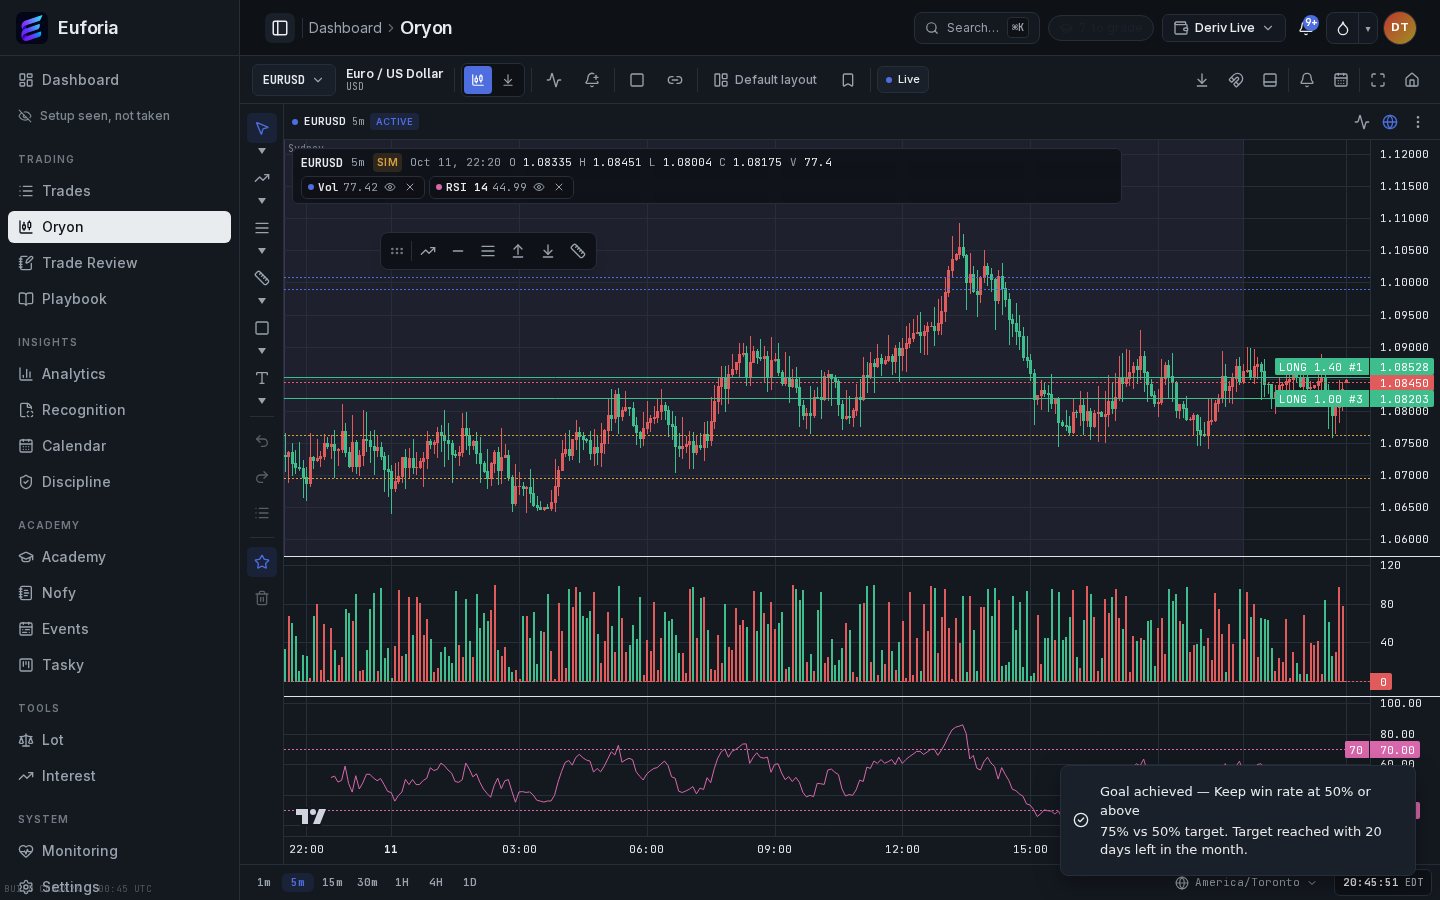
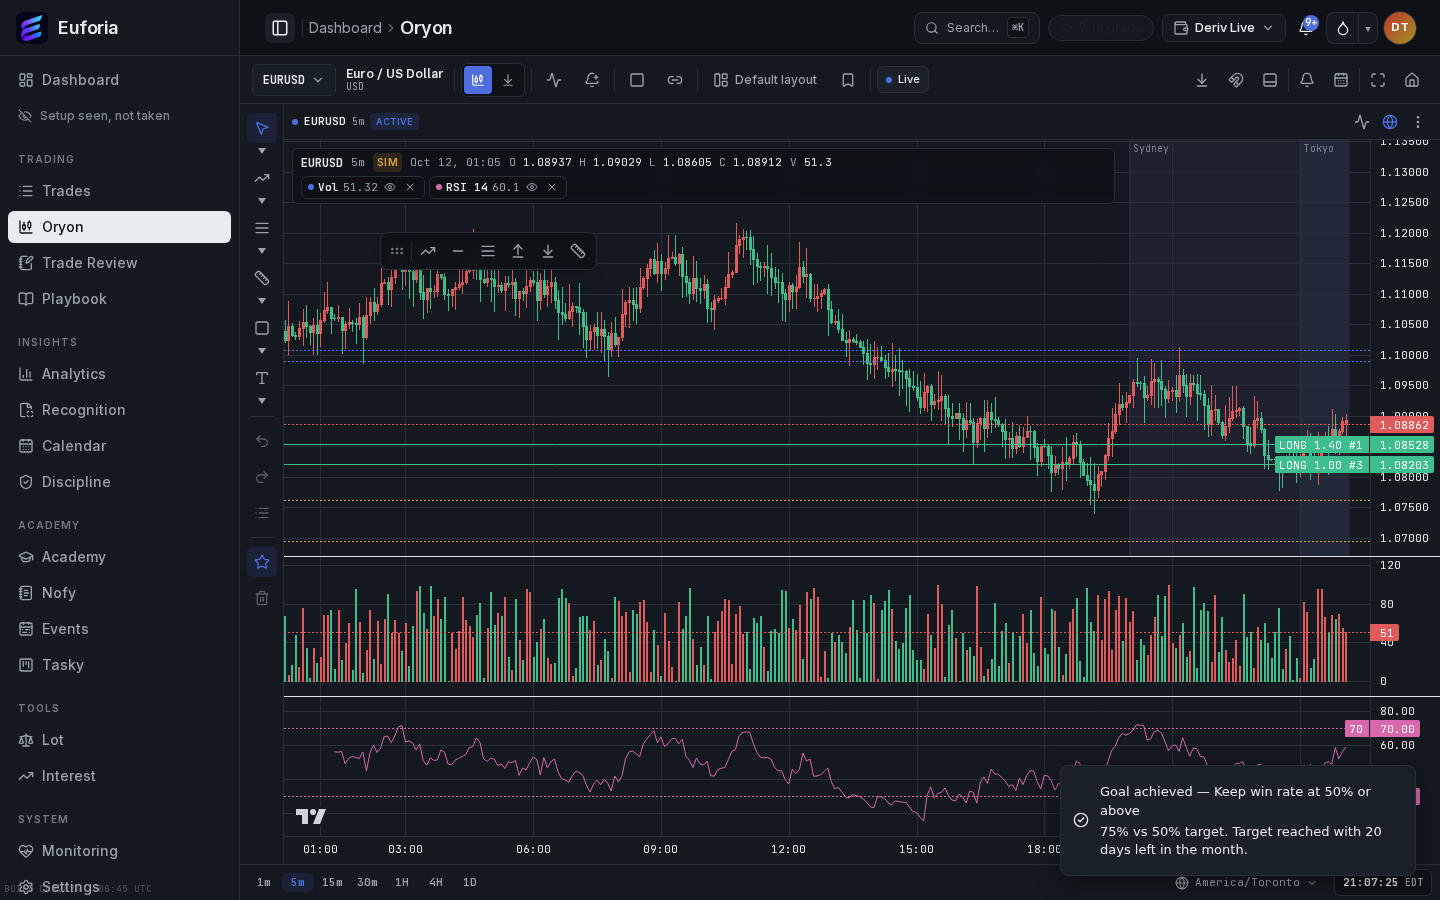
79908148-ee04-4497-bdc4-331d48d3dc9f

diff --git a/scripts/diag-toolbar-v4-draw.js b/scripts/diag-toolbar-v4-draw.js
@@ -1,0 +1,67 @@
+// Mini-diag: arm trend, click canvas twice, report drawing state.
+const { chromium } = require('playwright');
+const BASE = process.env.BASE_URL || 'http://localhost:3000';
+const DEMO_EMAIL = "trader@cosmoz.app";
+const DEMO_PASSWORD = "cosmoz-demo-2026";
+
+async function ensureLogin(page) {
+  const sidebar = page.locator('nav[aria-label="Main navigation"]');
+  if ((await sidebar.count()) > 0 && (await sidebar.isVisible().catch(() => false))) return;
+  await page.locator("#login-email").waitFor({ state: "visible", timeout: 20000 });
+  await page.locator("#login-email").fill(DEMO_EMAIL);
+  await page.locator("#login-password").fill(DEMO_PASSWORD);
+  await page.locator('[data-testid="login-submit"]').click();
+  await sidebar.waitFor({ state: "visible", timeout: 20000 });
+}
+
+(async () => {
+  const browser = await chromium.launch();
+  const ctx = await browser.newContext({ viewport: { width: 1440, height: 900 } });
+  const page = await ctx.newPage();
+  const errors = [];
+  page.on('pageerror', (e) => errors.push('PAGEERROR: ' + String(e).slice(0, 400)));
+  page.on('console', (m) => { if (m.type() === 'error') errors.push('CONSOLE: ' + m.text().slice(0, 300)); });
+
+  await page.goto(BASE + '/', { waitUntil: 'domcontentloaded', timeout: 30000 });
+  await ensureLogin(page);
+  await page.goto(BASE + '/oryon', { waitUntil: 'domcontentloaded', timeout: 30000 });
+  await page.waitForTimeout(9000);
+
+  const armed = await page.locator('[data-testid="oryon-tool-trend"]').getAttribute('aria-pressed');
+  console.log('trend group aria-pressed BEFORE:', armed);
+
+  await page.locator('[data-testid="oryon-tool-trend"]').click();
+  await page.waitForTimeout(300);
+  console.log('trend group aria-pressed AFTER arm:', await page.locator('[data-testid="oryon-tool-trend"]').getAttribute('aria-pressed'));
+
+  const canvas = page.locator('[data-testid="oryon-chart-canvas"]').first();
+  const box = await canvas.boundingBox();
+  console.log('canvas box:', box && { x: Math.round(box.x), y: Math.round(box.y), w: Math.round(box.width), h: Math.round(box.height) });
+
+  // move into the canvas first (hover), then click
+  await page.mouse.move(box.x + box.width * 0.35, box.y + box.height * 0.35);
+  await page.waitForTimeout(200);
+  await page.mouse.down(); await page.mouse.up();
+  await page.waitForTimeout(300);
+  await page.mouse.move(box.x + box.width * 0.7, box.y + box.height * 0.65);
+  await page.waitForTimeout(200);
+  await page.mouse.down(); await page.mouse.up();
+  await page.waitForTimeout(500);
+
+  const clearEnabled = await page.locator('[data-testid="oryon-drawings-clear"]').isEnabled();
+  const undoEnabled = await page.locator('[data-testid="oryon-drawing-undo"]').isEnabled();
+  const listEnabled = await page.locator('[data-testid="oryon-drawing-list-toggle"]').isEnabled();
+  console.log('clear enabled:', clearEnabled, '| undo enabled:', undoEnabled, '| list enabled:', listEnabled);
+
+  // open the objects dock even if disabled-click fails: try clicking list
+  if (listEnabled) {
+    await page.locator('[data-testid="oryon-drawing-list-toggle"]').click();
+    await page.waitForTimeout(600);
+    console.log('rows:', await page.locator('[data-testid^="oryon-drawing-row-"]').count());
+    const dockBox = await page.locator('[data-testid="oryon-panel-objects"]').boundingBox();
+    console.log('objects dock box:', dockBox && { x: Math.round(dockBox.x), y: Math.round(dockBox.y), w: Math.round(dockBox.width) });
+  }
+  console.log('errors:', errors.length ? errors.slice(0, 6) : 'none');
+  await page.screenshot({ path: '/home/z/my-project/scripts/toolbar-v4-drawdiag.png' });
+  await browser.close();
+})();

diff --git a/scripts/qcheck.js b/scripts/qcheck.js
@@ -1,0 +1,13 @@
+const { chromium } = require('playwright');
+(async () => {
+  const b = await chromium.launch();
+  const p = await (await b.newContext({ viewport: { width: 1440, height: 900 } })).newPage();
+  await p.goto('http://localhost:3000/', { waitUntil: 'domcontentloaded', timeout: 30000 });
+  await p.waitForTimeout(4000);
+  console.log('URL:', p.url());
+  const email = await p.locator('#login-email').count();
+  const sidebar = await p.locator('nav[aria-label="Main navigation"]').count();
+  console.log('#login-email count:', email, '| sidebar count:', sidebar);
+  console.log('body:', (await p.locator('body').innerText().catch(() => '')).slice(0, 300).replace(/\n/g, ' | '));
+  await b.close();
+})();

diff --git a/worklog.md b/worklog.md
@@ -1086,3 +1086,44 @@ Stage Summary:
 - **TOOLBAR V3 LIVRÉE ET VÉRIFIÉE** : éditeur de propriétés clic droit complet (couleur/épaisseur/dash/fill/fonte/R:R/direction + Clone/Lock/Delete, tout undoable), R:R configurable par objet (cible dérivée, jamais stockée — contrat d'honnêteté conservé), Brush + 4 Arrow marks fonctionnels (rendus/interactifs/persistés), catalogue 25 outils. **3 bugs réels corrigés** dont la perte silencieuse des dessins v2 au reload. Flotte de régression E2E restaurée à 100 % (433 assertions E2E vertes contre 3 suites cassées + 1 régression avant ce travail).
 - Choix : cible TOUJOURS dérivée (rr borne le multiple, jamais un prix stocké) ; brush temps non-snappés (forme, pas annotation par barre) ; glyphe flèche = constantes partagées painter/hit/éditeur ; pas de 3e handle cible sur les positions (l'éditeur possède rr — documenté) ; clones déverrouillés (surface d'édition).
 - Prochaine étape : suite Phase 9 — pont provider éco réel derrière le port P8 OU notification d'approche d'événement HIGH (moteur d'alertes) ; investiguer la race LWC template-apply (P7 L1, pré-existante).
+
+---
+Task ID: toolbar-v4
+Agent: Super Z (main)
+Task: Affiner la toolbar selon le prompt TradingView — (1) floating toolbar pleine hauteur, (2) time-range selector en bas (1D…All + Calendar), (3) timeframe en top toolbar, (4) flèches de nav au lieu de scrollbar, (5) panneau objets à droite, (6) layout de référence.
+
+Work Log:
+- Audit: oryon-view.tsx (layout), oryon-toolbar/bottom-bar/tool-rail/favorites-bar/utility-rail, drawing-layer (liste in-panel), engine (getVisibleRange/applyVisibleRange), schéma partagé oryonLayoutPanelSchema.
+- packages/shared: enum panels + "objects" (persisté, rétro-compatible).
+- lib/oryon/temporal/history-ranges.ts (nouveau): presets 1D/5D/1M/3M/6M/YTD/1Y/5Y/ALL + dateStartRange, math UTC, clamp honnête au span chargé; engine + accesseur dataSpan.
+- oryon-view.tsx: restructuration en STAGE (rail pleine hauteur, colonne centrale = chart + footer, utility rail pleine hauteur); callbacks onGoRange/onGoDate (moteur du panneau ACTIF, lu au clic); historyRange state; OryonUtilityPanel = OryonLayoutPanel partagé.
+- oryon-toolbar.tsx: OryonTimeframeSelector remonté (testids oryon-tf-* conservés).
+- oryon-bottom-bar.tsx réécrite: strip plages + calendrier à gauche, horloge/tz à droite.
+- oryon-history-range.tsx (nouveau): boutons + popover calendrier maison (grille UTC, nav mois, Today), zéro dépendance.
+- oryon-tool-rail.tsx: scroll sans scrollbar ([scrollbar-width:none]), flèches hover up/down (ResizeObserver + scroll state, pointer-events-none quand cachées), List ouvre le dock objets (store.openUtility("objects")).
+- oryon-utility-rail.tsx: onglet "Objects" (4e) + OryonObjectsPanel (OryonDrawingObjectList dockée, même composant, store actif via contexte); tooltips title sur tous les onglets.
+- oryon-drawing-layer.tsx: rendu de liste in-panel supprimé (déplacé, pas dupliqué); listOpen retiré du drawings-context.
+- oryon-favorites-bar.tsx: clamp vertical = stage (boundsRef) — peut descendre sur l'axe temps + footer; horizontal = chart area; re-clamp au resize.
+- Vérif: tsc OK, eslint OK, build OK, :3000 redémarré (kill par PID — leçon: lsof -ti:3000 peut rater, EADDRINUSE silencieux).
+- Sondes: verify-toolbar-v4.js (45/45 sur 1440x900, 1280x720, 1280x460), ranges sur :3001 dev (1D=1.00j exact, 5D=5.00j exact, 1M/3M/1Y clamp au span chargé 12.46j — comportement conçu), toolbar2 éprouvée: draw trendline OK sur :3000 (les FAIL sont les assertions v2 inversées — attendues).
+
+Stage Summary:
+- Toolbar v4 livrée et commitée (83950f5). 45/45 checks multi-viewport; calc de plages validé sur dev.
+- Piège récurrent: les clics de draw hors du paneau prix sont ignorés par le contrôleur (sondes: ancres cx±120, y+min(160, h*0.4)).
+- :3000 = build prod v4; :3001 = dev (laissé tourner pour les vérifs suivantes).
+
+---
+Task ID: eco-bridge-notifs
+Agent: Super Z (main)
+Task: (a) Pont provider éco RÉEL derrière le port existant; (b) notification d'approche d'événement HIGH sur les instruments du workspace (réutilise le moteur d'alertes).
+
+Work Log:
+- Audit: apps/api NE COMPILE PAS (erreurs préexistantes, :4000 down) → le pont vit dans le chemin de données VIVANT: /api/eco-events (MSW en mode mocké). FF weekly JSON (nfs.faireconomy.media) atteignable depuis le sandbox (200, 14KB) mais SANS CORS → fetch server-side obligatoire.
+- (a) packages/shared: ecoEventsResponseSchema + source optionnelle ("forexfactory" | "forexfactory+sample" | "sample"). lib/eco/forexfactory.ts (server-only): fetch FF 6s timeout, TTL 30min, single-flight, normalisation zod-safe (impact High/Medium/Low/Holiday→HIGH/MEDIUM/LOW/LOW, ""→null, ids UUID déterministes sha256(title|instant)). app/api/eco-events/route.ts: composition = réel (semaine courante) + fixtures HORS fenêtre réelle (zéro doublon), fallback fixtures pures si provider down. MSW handler eco-events → passthrough() (les autres routes restent mockées). Note de source du panneau Market context dynamique (eventsSourceLive).
+- (b) lib/oryon/alerts/eco-approach.ts (moteur PUR, pattern du moteur d'alertes): milestones T-30/T-10/T-2, one-shot par (event, milestone) par session, matching devise conservateur (quote exact ou jambe d'une paire FX 6 lettres), flag overdue (milestone franchie page fermée → "imminent"). oryon-eco-approach-bridge.tsx (leaf null-render, pattern feed-bridge): useEcoEvents + useNowMs(15s) → engine.tick; toast sonner (testid oryon-eco-approach-toast, 12s). resolveInstrument extrait PURE de chart-grid. Handle dev __ORYON_ECO_APPROACH_DEBUG__.inject (dev-only).
+- Vérif: tsc/eslint/build OK; :3000 rebuild + restart (kill par PID via ss -tlnp). curl /api/eco-events → source=forexfactory+sample, 375 events, titres FF réels présents (MPC Member Breeden Speaks, Bank Holiday, NFP USD HIGH). Sonde verify-eco-bridge.js 6/6 sur :3001: note live affichée, 40 rows, toast tiré (~20s, cadence tick 15s), match EURUSD, pas de doublon au tick suivant, zéro erreur page.
+
+Stage Summary:
+- Commit 3eba9d9. La surface éco du workspace sert maintenant des annonces RÉELLES de la semaine courante (fallback honnête vers les fixtures), avec provenance affichée. Les événements HIGH à venir sur les instruments des panels notifient à T-30/T-10/T-2 via le même canal toast que les alertes prix.
+- Artefact dev connu: StrictMode peut monter le bridge 2× (2 toasts identiques) — prod monte 1×.
+- :3000 = build prod à jour; :3001 = dev avec handles debug.
